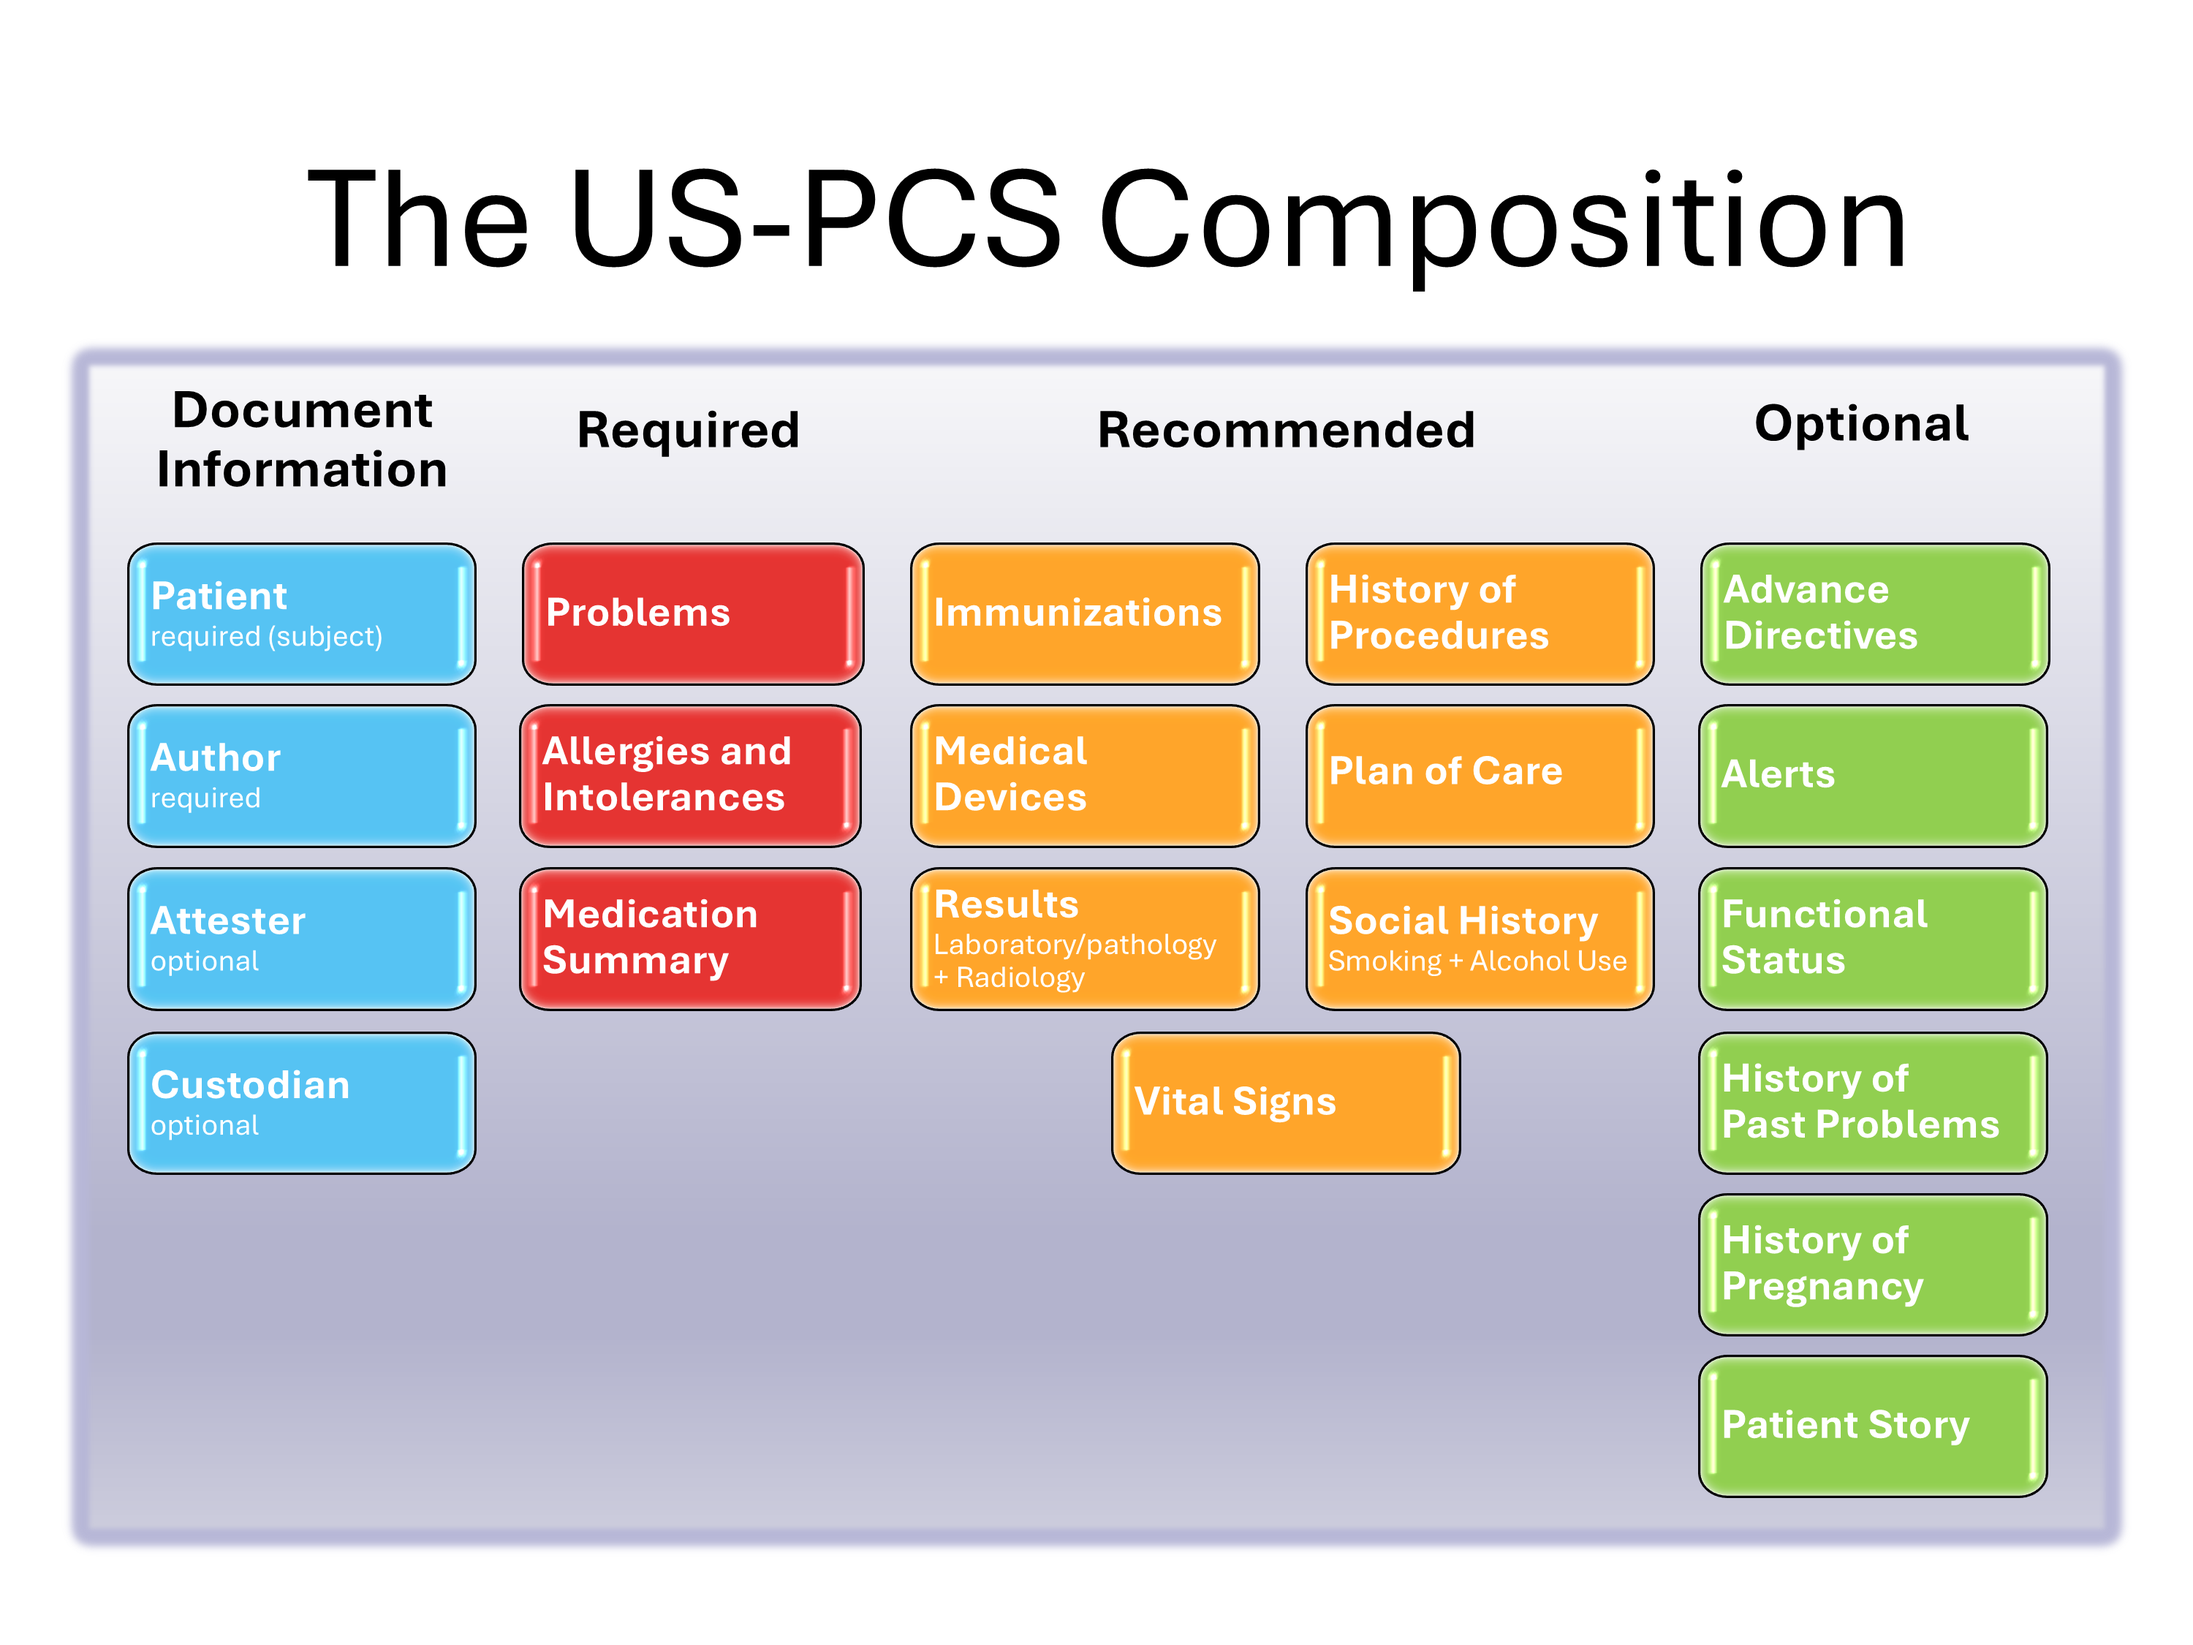
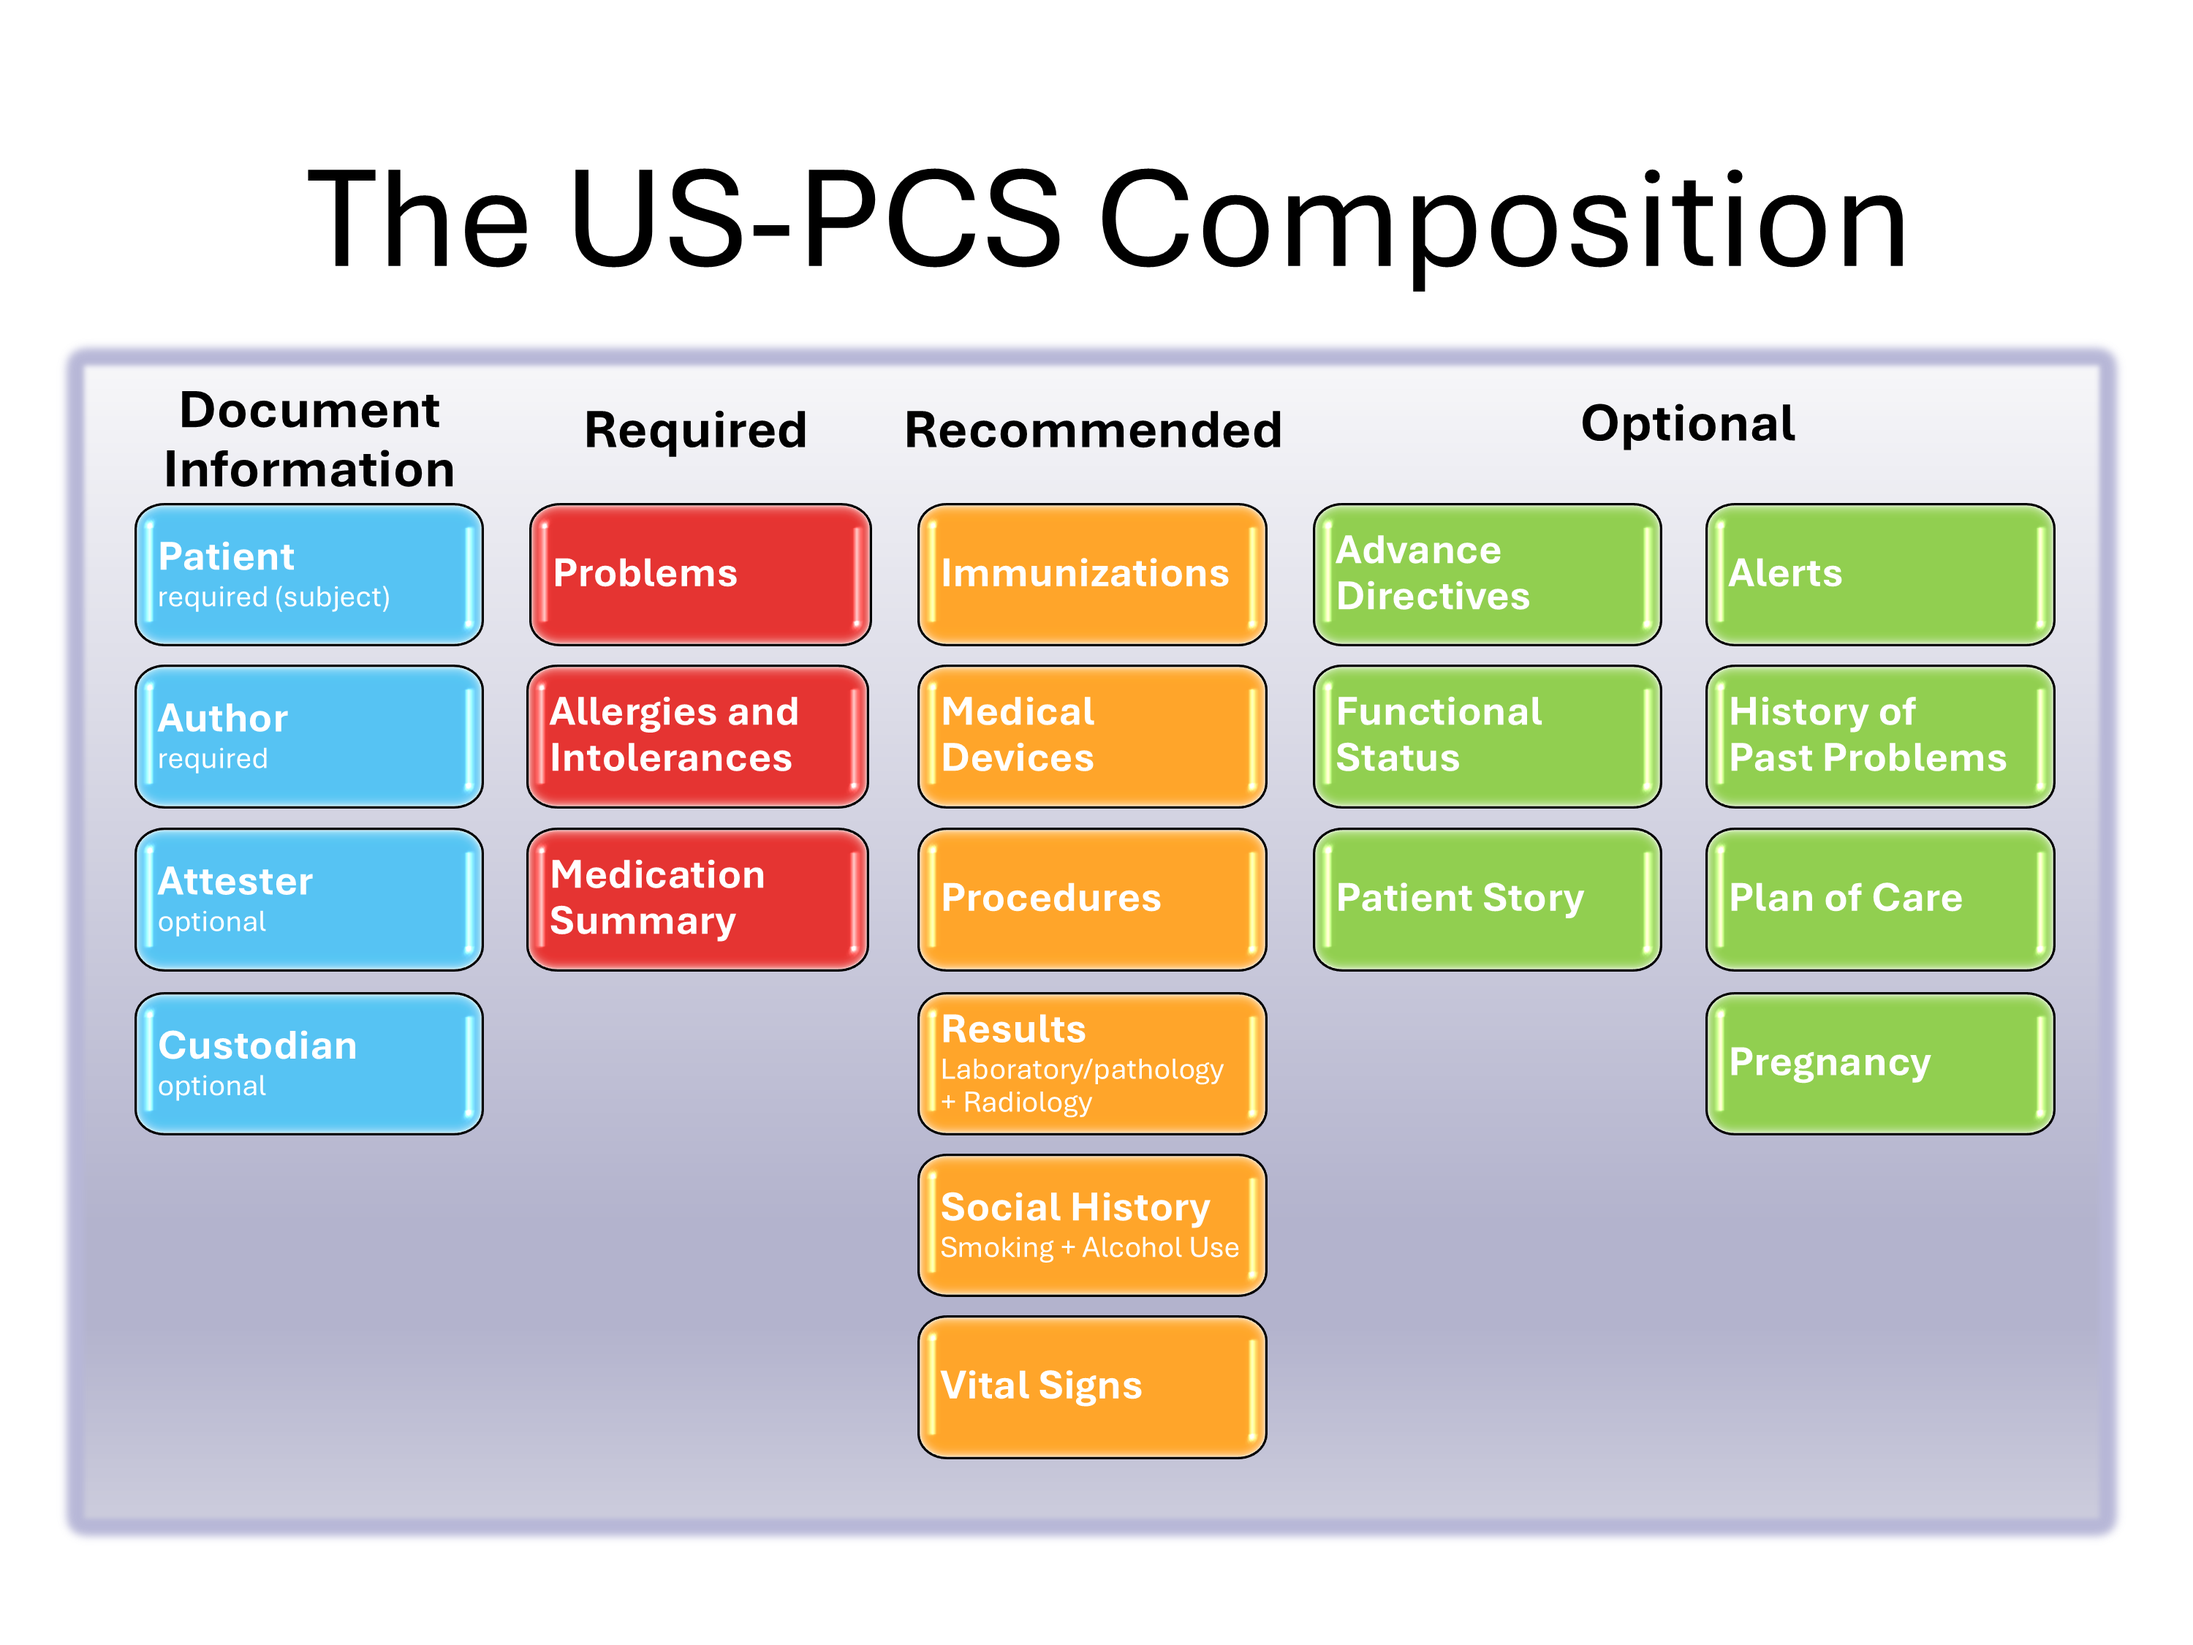
Guidance - initial DRAFT not yet reviewed

Changed region(s): [[0.031, 0.2178, 0.961, 0.9644], [0.961, 0.9022, 0.992, 0.9333]]

diff --git a/input/pagecontent/general-guidance.md b/input/pagecontent/general-guidance.md
@@ -2,24 +2,83 @@
 td, th {
    border: 1px solid black!important;
    max-width:500px;
+   text-align: left;
 }
 </style>
 
 ### US-PCS Guidance 
+
+The US-PCS [Bundle]() and [Composition]() profiles derive from guidance in [FHIR Clinical Documents (1.0.1)](https://hl7.org/fhir/uv/fhir-clinical-document/STU1.0.1/en/) and apply additional constraints relevant to the United States. These includes header information in the US-PCS Composition and the use of US Core clinical profiles when available. The US-PCS attempts to align with the [International Patient Summary (IPS) Implementation Guide (2.0.0)] by using the same document code and sections as defined in the IPS. In addition, when a US Core profile is not available within a specific section, references to IPS clinical profiles are retained. Variances between US-PCS and IPS are documented in the ["US Variance to IPS"](./us-variance-to-ips.html) portion of this guide. 
 
 {% include img.html img="US-PCS-Relationships.png" caption="Figure 3: US-PCS Relationships to Other Guides"
     width="80%" %}
 
 #### US Core Version 6.1.0
 
-#### US-PCS Sections and CDA Alignment
+The US-PCS references clinical profiles from [US Core version 6.1.0](https://hl7.org/fhir/us/core/STU6.1-snapshot1/). These profiles are required through US Core Data for Interoperability (USCDI) in 2026 and should be generally available to most US health information technology vendors. In the event that only resources conformant to a different version of US Core are available, this guide recommends sending available resources rather than omitting information. Any reference to US Core resources **SHALL NOT** be considered a requirement to send resources conformant to a specific US Core version. The ["US Variance to IPS"](./us-variance-to-ips.html) portion of this guide compares the clincial profile from US Core 6.1.0 to the IPS 2.0.0 profiles, and consideration of IPS alignment is recommended when sending different US Core versions. 
+
+**TBD: What to do with resources that don't fit in IPS section??**
+
+#### Aligning US-PCS Sections with IPS and C-CDA
+
+The US-PCS profiles 16 sections to align with the sections in the IPS Implementation Guide. The US-PCS, like the IPS and C-CDA documents, remains open at the section level, which means that additional sections may be added so long as they have different `Composition.section.code` coding. Like the IPS, the US-PCS only requires three section of Problems, Allergies and Medications. This provides the opportunity for concise summaries when appropriate, although implementers are encouraged to include all sections that are clinically relevant. For more guidance about what content should be included in IPS-aligned US-PCS sections, we refer readings to [IPS Guidance](https://hl7.org/fhir/uv/ips/Structure-of-the-International-Patient-Summary.html). 
+
+The [Consolidated Clinical Document Architecture (C-CDA)](https://hl7.org/cda/us/ccda/) is a library of clincial documents in wide usage in the United States. The US-PCS is not intended to directly replace any of these documents, although it is most closely related to the [Continuity of Care Document (CCD)](https://hl7.org/cda/us/ccda/StructureDefinition-ContinuityofCareDocumentCCD.html). As published in 2007, the original CCD standard profiled 16 different sections although none were required. Over time through inclusion in the C-CDA standard, 6 of the CCD sections became required as CCD serves a primary mechanism to communicate information across US providers and health information technology.  A comparison of CCD sections (C-CDA 2.1) to the FHIR IPS (2.0) and US-PCS sections is shown below: 
+
+|Section Name (LOINC code)|CCD Section Conformance (C-CDA 2.1)|IPS Section Recommendation (IPS 2.0)|US-PCS Recommendation| 
+|-----|-----|-----|-----|
+|Problems (11450-4)|SHALL|Required|Required|
+|Allergies (48765-2)|SHALL|Required|Required|
+|Medications (10160-0)|SHALL|Required|Required|
+|Results(30954-2)|SHALL|Recommended|Recommended|
+|Social History (29762-2)|SHALL|Optional|Recommended|
+|Vital Signs (8716-3)|SHALL|Optional|Recommended|
+|Care Plan (18776-5)|SHOULD|Optional|Optional|
+|Procedures (47519-4)|SHOULD|Recommended|Recommended|
+|Advance Directives (42348-3)|MAY|Optional|Optional|
+|Encounters(46240-8)|MAY|Not Profiled|Not Profiled|
+|Family History (10157-6)|MAY|Not Profiled|Not Profiled|
+|Functional Status (47420-5)|MAY|Optional|Optional|
+|Immunizations (11369-6)|MAY|Recommended|Recommended|
+|Medical Devices (46264-8)|MAY|Recommended|Recommended|
+|Payers (48768-6)|MAY|Not Profiled|Not Profiled|
+|Mental Status (10190-7)|MAY|Not Profiled|Not Profiled|
+|Nutrition (61144-2)|MAY|Not Profiled|Not Profiled|
+|Alerts (104605-1)|Not Profiled|Optional|Optional|
+|History of Past Problems (11348-0)|Not Profiled|Optional|Optional|
+|Patient Story (81338-6)|Not Profiled|Optional|Optional|
+|Pregnancy (10162-6)|Not Profiled|Optional|Optional|
+
+The US-PCS aligns with the IPS by only requiring three sections. Since there is a strong precedence of sending social history and vital sign sections in the United States, those two sections are added to the four recommended sections of the IPS. All other sections of the US-PCS remain aligned with the IPS. 
 
 #### Summary Creation
 
+TBD
+
 ### Must Support Definition
 
-The US-PCS inherits Must Support flags from [FHIR Clinical Documents](https://hl7.org/fhir/uv/fhir-clinical-document/STU1.0.1/en/StructureDefinition-clinical-document-composition.html#guidance-on-composition-flags)
+The US-PCS both inherits Must Support flags from [FHIR Clinical Documents](https://hl7.org/fhir/uv/fhir-clinical-document/STU1.0.1/en/StructureDefinition-clinical-document-composition.html#guidance-on-composition-flags) and also assign Must Support in the profiles. 
 
-The definition of Must Support for this guide is:
+The US-PCS definition of Must Support is aligned with the [FHIR US Core (6.1.0)](https://hl7.org/fhir/us/core/STU6.1-snapshot1/must-support.html) defintino with adapations to a document context:
+
+The Profile elements consist of *Mandatory*, *Must Support*, and *USCDI Requirements* elements. The sections below defines the document creator and consumer expectations for processing these elements and illustrates how they are displayed and documented.
+
+### Mandatory Elements
+
+*Mandatory* elements are elements with a minimum cardinality of 1 (min=1). When an element is Mandatory, the data is expected to always be present. Very rarely, it may not be, and guidance for when data is missing is provided in the [Missing Data section](). 
+
+### Must Support Elements
+
+For generating a US-PCS, *Must Support* on any profile data element **SHALL** be interpreted as follows:
+
+* US-PCS Document Creators **SHALL** be capable of populating all data elements as part of the document creation.
+* US-PCS Document Consumers **SHALL** be capable of processing resource instances containing the data elements without generating an error or causing the application to fail. In other words, US-PCS Document Consumers **SHOULD** be capable of displaying the data elements for human use or storing it for other purposes.
+* In situations where information on a particular data element is not present, and the reason for absence is unknown, Document Creators **SHALL NOT** include the data elements in the resource instance returned as part of document creation.
+* US-PCS Document Consumers **SHALL** interpret missing data elements within resource instances as data not present in the US-PCS Document Creator's system.
+* In situations where information on a particular data element is missing or suppressed, refer to the US Core guidance for [Missing Data](https://hl7.org/fhir/us/core/STU6.1-snapshot1/general-requirements.html#missing-data) and [Suppressed Data](https://hl7.org/fhir/us/core/STU6.1-snapshot1/general-guidance.html#suppressed-data). In cases where information on a specific data element is missing *and* the US-PCS Document Creator knows the precise reason for the absence of data (other than suppressed data), US-PCS Document Creators **SHOULD** send the reason for the missing information. This is done by following the same methodology outlined in the [Missing Data](https://hl7.org/fhir/us/core/STU6.1-snapshot1/general-requirements.html#missing-data) section but using the appropriate reason code instead of `unknown`.
+* US-PCS Document Consumers **SHALL** be able to process resource instances containing data elements asserting missing information.
+
+The terms *US-PCS Document Creator* and *US-PCS Document Consumer* when used in this guide share many similarities with [IPS Creator](https://hl7.org/fhir/uv/ips/ActorDefinition-Creator.html) and [IPS Consumer](https://hl7.org/fhir/uv/ips/ActorDefinition-Consumer.html) but should not be considered identical.
+
 
 ...

diff --git a/input/pagecontent/us-variance-to-ips.md b/input/pagecontent/us-variance-to-ips.md
@@ -1,19 +1,37 @@
 ## US Variance to IPS
 
-TBD
+The US-PCS attempts to strongly align with the IPS but it does not derive its Bundle or Composition profiles from the IPS. All 16 sections of the IPS are profiled in US-PCS, but resource expectations draw primarily from US Core rather than IPS clinical profiles. 
+
+### US Variance in Must Support, Obligation and Actors
+
+The US-PCS guide does not use the Must Support definition through obligations as defined in the [IPS Implementation Guide](https://hl7.org/fhir/uv/ips/STU2/Must-Support-and-Obligations.html). In addition, the [Must Support definition](./general-guidance.html#must-support-definition) in US-PCS for Document Creator and Document Consumer behvarior vary from the IPS Actor Definition of [IPS Creator](https://hl7.org/fhir/uv/ips/ActorDefinition-Creator.html) and [IPS Consumer](https://hl7.org/fhir/uv/ips/ActorDefinition-Consumer.html). 
 
 ### US Core Profile Variances to IPS Profiles
 
+**Analysis TBD**
+
 us-core-allergyintolerance
+
 us-core-careplan
+
 us-core-condition-problems-health-concerns
+
 us-core-diagnosticreport-lab
+
 us-core-documentreference
+
 us-core-patient
+
 us-core-medicationrequest
+
 us-core-organization
+
 us-core-practition
+
 us-core-practitionerrole
+
 us-core-smokingstatus
+
 us-core-observation-lab
+
 us-core-vital-signs

diff --git a/input/pagecontent/terminology-guidance.md b/input/pagecontent/terminology-guidance.md
@@ -30,6 +30,4 @@ The [International Patient Summary (IPS)] has preferred bindings to several term
 
 ### Using SNOMED IPS Terminology
 
-SNOMED CT is licensed and available for use in the United States. Not all nations worldwide, however, have a license. In addition, national editions of SNOMED CT may vary from internationally recognized codes. 
-
-Thereforce, it is encouraged to leverage codes from the SNOMED IPS Terminology when possible. This sub-onotology of SNOMED CT is licensed permissively under a Creative Commons license and can be used worldwide.   
+SNOMED CT is licensed and available for use in the United States. Not all nations worldwide, however, have a license or use SNOMED. In addition, national editions of SNOMED CT may vary from internationally recognized codes. Thereforce, it is encouraged to leverage codes from the [SNOMED IPS Terminology](https://www.snomed.org/international-patient-summary-terminology) when possible. This sub-onotology of SNOMED CT is licensed permissively under a Creative Commons license and can be used worldwide.   
